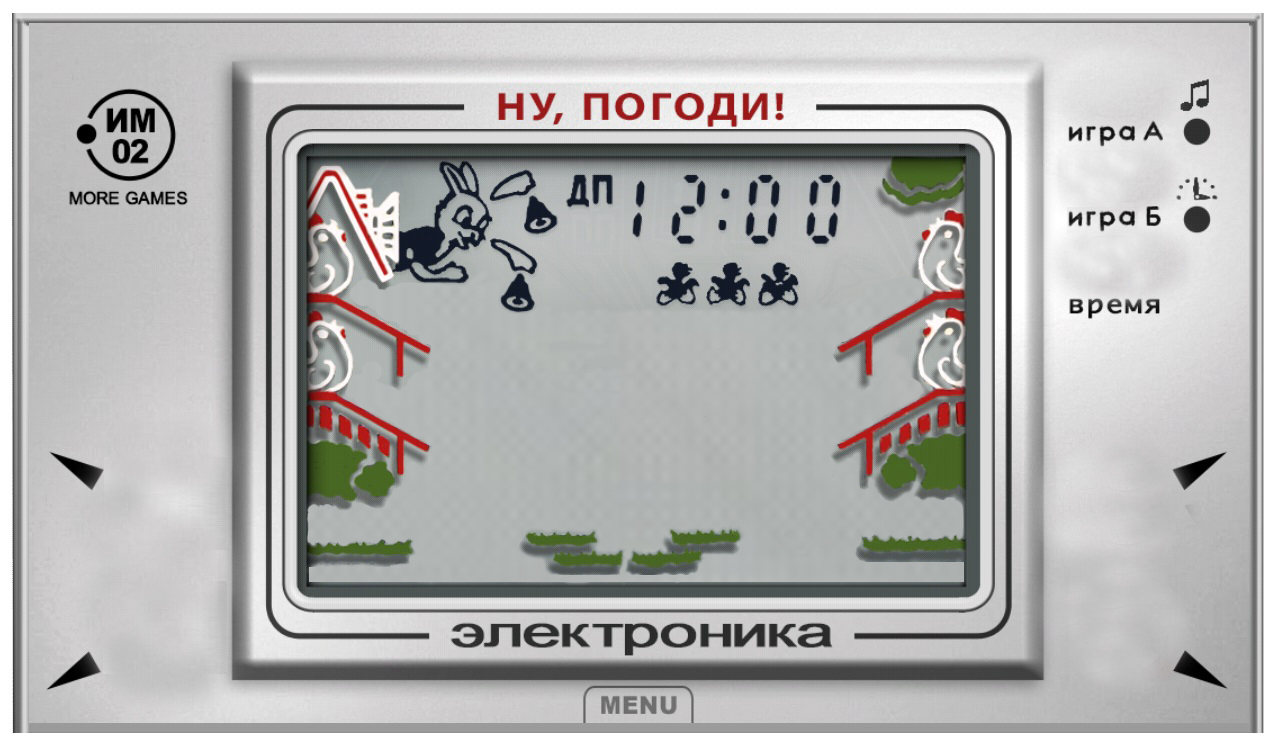
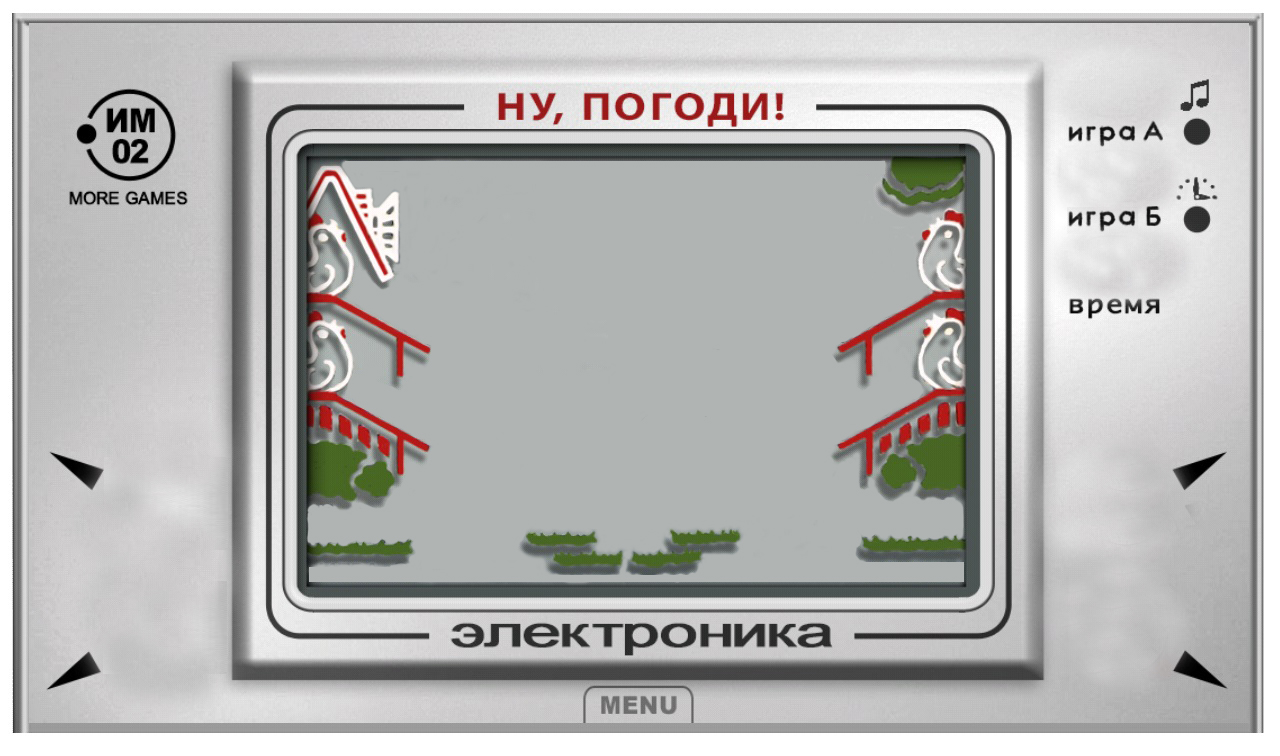
4

Changed region(s): [[0.25, 0.213, 0.6875, 0.4259]]

diff --git a/style.css b/style.css
@@ -388,3 +388,136 @@
    height: 11px;
    background-image: url(images/gameB.png);
 }
+.hare{
+   display: none;
+   position: absolute;
+   top: 80px;
+   left: 196px;
+   width: 51px;
+   height: 61px;
+   background-image: url(images/hare.png);
+   background-size: cover;
+}
+.hare.active{
+   display: none;
+}
+.egg_broken_blok{
+   position: relative;
+}
+.egg_broken{
+   background-size: cover;
+   position: absolute;
+   display: none;
+}
+.egg_broken.active{
+   display: block;
+}
+.egg_broken_blok>div:nth-child(1){
+   top: 130px;
+   left: 378px;
+   width: 21px;
+   height: 24px;
+   background-image: url(images/begg1.png);
+}
+.egg_broken_blok>div:nth-child(2){
+   top: 130px;
+   left: 352px;
+   width: 21px;
+   height: 24px;
+   background-image: url(images/begg2.png);
+
+}
+.egg_broken_blok>div:nth-child(3){
+   top: 130px;
+   left: 327px;
+   width: 21px;
+   height: 24px;
+   background-image: url(images/begg3.png);
+}
+
+.blok-blok-z{
+   position: relative;
+}
+
+.blok-z{
+   position: absolute;
+   width: 18px;
+   height: 35px;
+   /* background-color: rgba(165, 42, 42, 0.322); */
+
+}
+.blok-blok-z>div:nth-child(1){
+   top: 87px;
+   left: 403px;
+}
+.blok-blok-z>div:nth-child(2){
+   top: 87px;
+   left: 373px;
+}
+.blok-blok-z>div:nth-child(3){
+   top: 87px;
+   left: 335px;
+}
+.blok-blok-z>div:nth-child(4){
+   top: 87px;
+   left: 305px;
+}
+   
+.z-el{
+   background-size: cover;
+   position: absolute;
+   display: none;
+}
+.z-el.active{
+   display: block;
+}
+.blok-z>div:nth-child(1){
+   top: 2px;
+   left: 1px;
+   width: 5px;
+   height: 14px;
+   background-image: url(images/z1.png);
+}
+.blok-z>div:nth-child(2){
+   top: 0px;
+   left: 5px;
+   width: 10px;
+   height: 5px;
+   background-image: url(images/z2.png);
+
+}
+.blok-z>div:nth-child(3){
+   top: 2px;
+   left: 13px;
+   width: 5px;
+   height: 15px;
+   background-image: url(images/z3.png);
+}
+.blok-z>div:nth-child(4){
+   top: 15px;
+   left: 4px;
+   width: 9px;
+   height: 5px;
+   background-image: url(images/z4.png);
+}
+.blok-z>div:nth-child(5){
+   top: 18px;
+   left: 0px;
+   width: 5px;
+   height: 13px;
+   background-image: url(images/z5.png);
+}
+.blok-z>div:nth-child(6){
+   top: 18px;
+   left: 11px;
+   width: 6px;
+   height: 13px;
+   background-image: url(images/z6.png);
+}
+.blok-z>div:nth-child(7){
+   top: 30px;
+   left: 3px;
+   width: 10px;
+   height: 5px;
+   background-image: url(images/z7.png);
+}

diff --git a/sc.js b/sc.js
@@ -179,6 +179,7 @@ class ButtonBlokM {
       switch (n) {
          case  '0':
            // blokEgg.game();
+            
             game.startGame(1,0)   
             game.gameVisible('a')
              let int = setTimeout(function run() {
@@ -221,6 +222,7 @@ class Game {
    countUpSped = 0 // номер в массиве upSped
    predNewEgg = 4 //номер лотка на котором было предыдущее яйцо
    eggTotal = 0 //колличество яиц на лотках
+   
    trays =[
       [0,0,0,0,0,0],
       [0,0,0,0,0,0],
@@ -288,6 +290,7 @@ class Game {
             
             if ( +this.wolfPosition === +index){
                this.upTotal() //увеличить счет
+               score.rendering(this.getTotal())
                console.log('счет -', this.getTotal())//отрисовка счета
             } else { 
                console.log("яйцо упало")//}
@@ -404,6 +407,39 @@ class Game {
       }
    }
 }
+class Scoreboard {
+   numbers = {
+      0: [1,1,1,0,1,1,1],
+      1: [0,0,1,0,0,1,0],
+      2: [0,1,1,1,1,0,1],
+      3: [0,1,1,1,0,1,1],
+      4: [1,0,1,1,0,1,0],
+      5: [1,0,1,1,0,1,0],
+      6: [1,1,0,1,1,1,1],
+      7: [0,1,1,0,0,1,0],
+      8: [1,1,1,1,1,1,1],
+      9: [1,1,1,1,0,1,1]
+   }
+
+   rendering(n) {
+      const str = n.toString()
+      const arir = str.split('')
+      const score = document.querySelectorAll('.blok-z');
+      let sch = arir.length - 1
+      for (let i = 0; i < arir.length; i++){
+         for (let index = 0; index < 7; index++) {
+            if (this.numbers[arir[i]][index] == 1) {
+               score[sch].children[index].classList.add('active')
+            } else {
+               score[sch].children[index].classList.remove('active')
+            }
+         }
+         sch--
+      }
+   }
+
+}
+
 
 const blokEgg = new Pole()
 blokEgg.activatePole()
@@ -412,5 +448,5 @@ const blokButtonM = new ButtonBlokM (3)
 blokButtonM.creatButtonBlokM()
 
 const game = new Game()
-
-console.log( game)
+const score = new Scoreboard()
+//console.log( game)

diff --git a/index.html b/index.html
@@ -63,6 +63,52 @@
                <div class="game"></div>
                <div class="game"></div>
             </div>
+            <div class="hare"></div>
+            <div class="egg_broken_blok">
+               <div class="egg_broken"></div>
+               <div class="egg_broken"></div>
+               <div class="egg_broken"></div>
+            </div>
+
+            <div class="blok-blok-z">
+               <div class="blok-z">
+                  <div class="z-el"></div>
+                  <div class="z-el"></div>
+                  <div class="z-el"></div>
+                  <div class="z-el"></div>
+                  <div class="z-el"></div>
+                  <div class="z-el"></div>
+                  <div class="z-el"></div>
+               </div>
+               <div class="blok-z">
+                  <div class="z-el"></div>
+                  <div class="z-el"></div>
+                  <div class="z-el"></div>
+                  <div class="z-el"></div>
+                  <div class="z-el"></div>
+                  <div class="z-el"></div>
+                  <div class="z-el"></div>
+               </div>
+               <div class="blok-z">
+                  <div class="z-el"></div>
+                  <div class="z-el"></div>
+                  <div class="z-el"></div>
+                  <div class="z-el"></div>
+                  <div class="z-el"></div>
+                  <div class="z-el"></div>
+                  <div class="z-el"></div>
+               </div>
+               <div class="blok-z">
+                  <div class="z-el"></div>
+                  <div class="z-el"></div>
+                  <div class="z-el"></div>
+                  <div class="z-el"></div>
+                  <div class="z-el"></div>
+                  <div class="z-el"></div>
+                  <div class="z-el"></div>
+               </div>
+         </div>
+
          </div>
       </div>
       <script src="./sc.js"></script>
